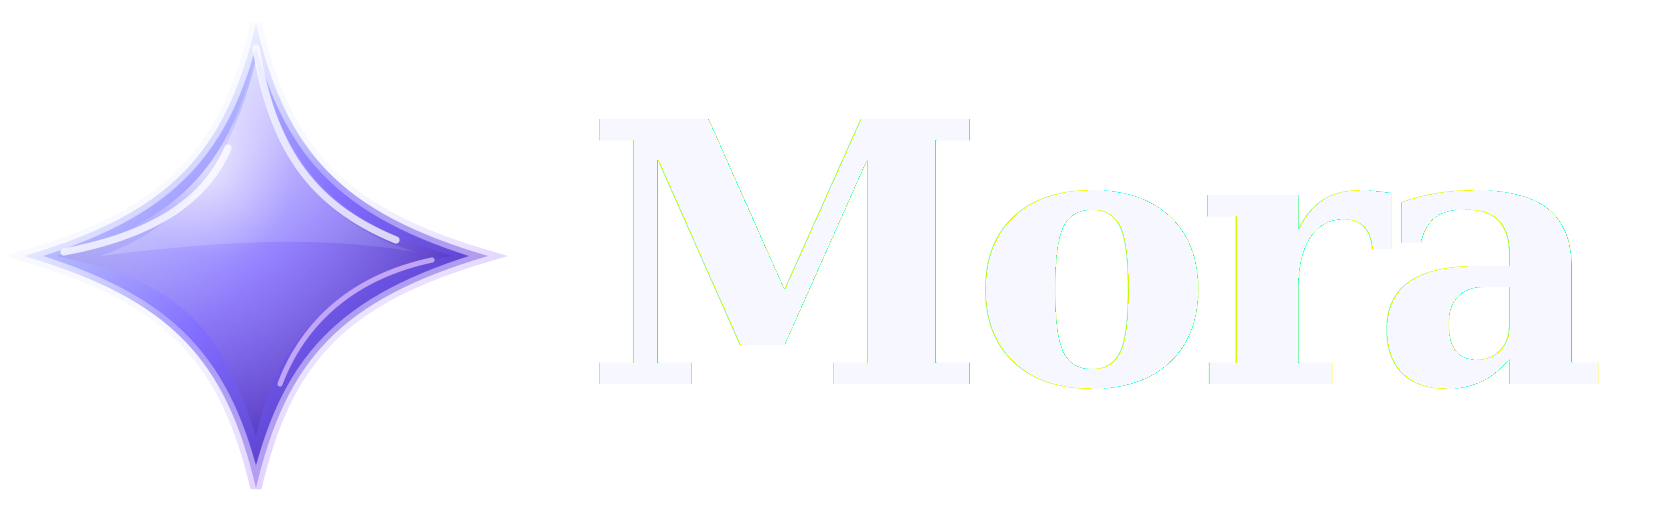
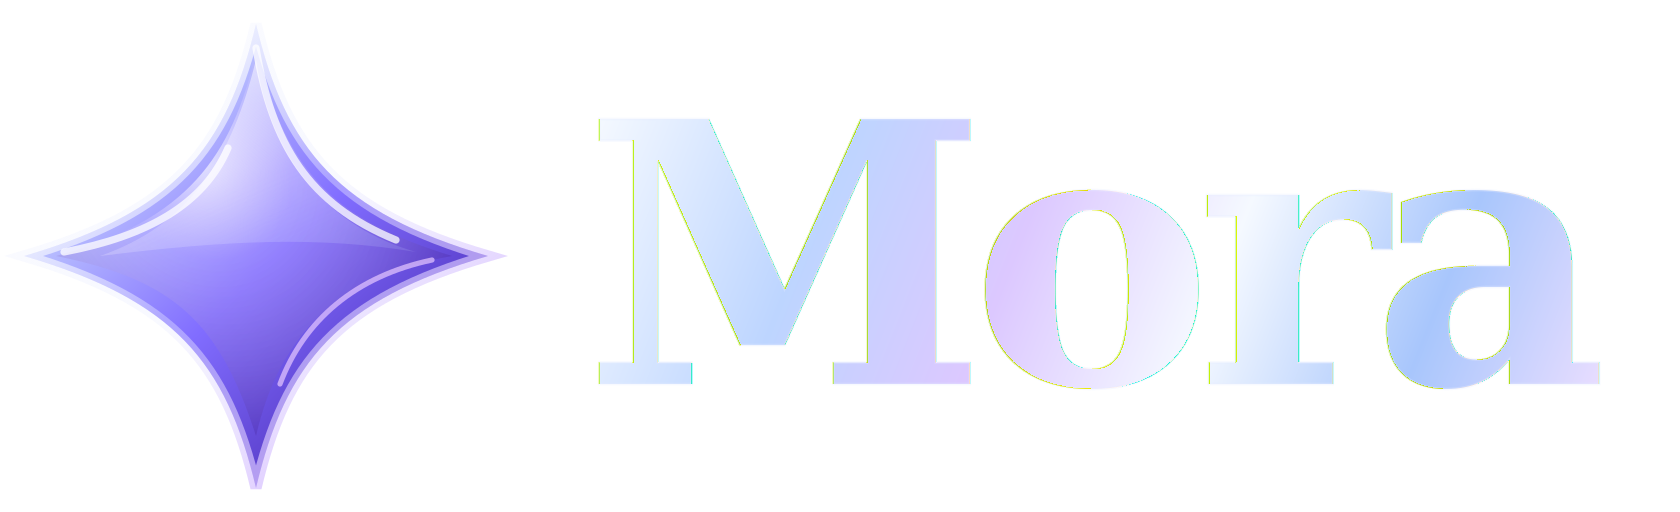
Make Mora wordmark interactive and restore light hero contrast

Changed region(s): [[0.3405, 0.2188, 0.681, 0.75], [0.7429, 0.3438, 0.9595, 0.7812]]

diff --git a/src/styles.css b/src/styles.css
@@ -471,3 +471,53 @@ html[data-theme="dark"] .learn-hero .learn-search input::placeholder { color:#55
 }
 @media(max-width:410px) { .profile-layout aside { grid-template-columns:1fr; } }
 @media(prefers-reduced-motion:reduce) { .site-header { transition:none; } }
+
+/* The wordmark is live interface text, with a glass highlight on hover and focus. */
+.brand { --brand-type-size:38px; display:inline-flex; align-items:center; gap:5px; white-space:nowrap; isolation:isolate; }
+.brand-liquid-star { display:block; flex:none; width:41px; height:41px; filter:drop-shadow(0 3px 8px rgba(72,48,178,.24)); transition:transform .55s ease,filter .55s ease; }
+.brand-liquid-text {
+  position:relative; display:inline-block; font-family:Georgia,'Times New Roman',serif;
+  font-size:var(--brand-type-size); font-weight:700; line-height:1.09; letter-spacing:-.063em;
+  color:#1b3774; background:linear-gradient(135deg,#122750 3%,#244796 24%,#5678c4 35%,#5d46af 43%,#18346b 63%,#3d65b1 83%,#1a2e65);
+  background-size:205% 150%; background-position:0 50%; background-clip:text; -webkit-background-clip:text; -webkit-text-fill-color:transparent;
+  -webkit-text-stroke:.35px rgba(19,38,89,.34); text-shadow:0 4px 15px rgba(32,47,112,.16);
+  transition:background-position .8s ease,transform .55s ease,text-shadow .55s ease;
+}
+.brand-liquid-text::after {
+  content:attr(data-text); position:absolute; inset:0; pointer-events:none;
+  background:linear-gradient(110deg,transparent 18%,rgba(255,255,255,.75) 33%,transparent 48%);
+  background-size:250% 100%; background-position:0 50%; background-clip:text; -webkit-background-clip:text;
+  -webkit-text-fill-color:transparent; opacity:0; transition:background-position .85s ease,opacity .4s ease;
+}
+.brand:hover .brand-liquid-star,.header-brand:focus-visible .brand-liquid-star { transform:rotate(9deg) scale(1.08); filter:drop-shadow(0 5px 12px rgba(102,67,208,.42)); }
+.brand:hover .brand-liquid-text,.header-brand:focus-visible .brand-liquid-text { background-position:100% 50%; transform:translateY(-1px); text-shadow:0 5px 18px rgba(52,79,180,.32); }
+.brand:hover .brand-liquid-text::after,.header-brand:focus-visible .brand-liquid-text::after { opacity:.85; background-position:100% 50%; }
+.brand:active .brand-liquid-star { transform:rotate(-7deg) scale(.96); }
+html[data-theme="dark"] .brand-liquid-text {
+  color:#eef4ff; background-image:linear-gradient(135deg,#f8fbff 5%,#bbd3ff 24%,#e2c4ff 43%,#f8faff 64%,#a8caff 83%,#e9d9ff);
+  -webkit-text-stroke:.35px rgba(224,234,255,.38); text-shadow:0 3px 16px rgba(155,163,255,.3);
+}
+.header-brand>small { margin-left:47px; }
+.auth-shell-simple .auth-title .brand { --brand-type-size:54px; gap:8px; }
+.auth-shell-simple .auth-title .brand-liquid-star { width:54px; height:54px; }
+.brand.compact .brand-liquid-text { display:none; }
+.brand.compact .brand-liquid-star { width:40px; height:40px; }
+/* Restore dark hero surfaces after the shared glass-card background declaration. */
+html:not([data-theme="dark"]) .worlds-hero.glass-card,
+html:not([data-theme="dark"]) .projects-hero.glass-card,
+html:not([data-theme="dark"]) .learn-hero.glass-card {
+  color:#fff;
+  background:radial-gradient(circle at 78% 10%,rgba(176,143,250,.2),transparent 47%),linear-gradient(130deg,rgba(20,59,139,.97),rgba(45,46,136,.95) 55%,rgba(80,43,148,.94));
+}
+html:not([data-theme="dark"]) .demo-banner.glass-card { background:linear-gradient(130deg,rgba(18,54,135,.95),rgba(79,46,141,.94)); color:white; }
+a.primary-button { text-decoration:none; }
+@media(max-width:640px) {
+  .brand { --brand-type-size:30px; gap:4px; }
+  .brand-liquid-star { width:32px; height:32px; }
+  .header-brand>small { margin-left:37px; }
+  .auth-shell-simple .auth-title .brand { --brand-type-size:50px; }
+  .mobile-nav a[href$="/studio"] span { white-space:normal; max-width:67px; line-height:1.15; text-overflow:clip; }
+}
+@media(prefers-reduced-motion:reduce) {
+  .brand-liquid-star,.brand-liquid-text,.brand-liquid-text::after { transition:none; }
+}

diff --git a/src/components/AppLayout.jsx b/src/components/AppLayout.jsx
@@ -12,7 +12,7 @@ const navItems = [
   ['/worlds', 'worlds', Globe2],
   ['/projects', 'projects', BriefcaseBusiness],
   ['/learn', 'learn', BookOpen],
-  ['/profile', 'profile', UserRound],
+  ['/studio', 'studio', Settings],
 ]
 
 function Avatar({ profile }) {
@@ -68,7 +68,6 @@ export default function AppLayout() {
       </div>
       <nav className="main-nav" aria-label="Điều hướng chính">
         {navItems.map(([to, key, Icon]) => <NavLink key={to} to={to} onClick={() => setAccountOpen(false)}><Icon /><span>{t[key]}</span></NavLink>)}
-        <NavLink className="nav-studio" to="/studio" onClick={() => setAccountOpen(false)}><Settings /><span>{t.studio}</span></NavLink>
       </nav>
     </header>
     <main className="app-main"><div className="page-container"><Outlet /></div></main>

diff --git a/src/components/Brand.jsx b/src/components/Brand.jsx
@@ -1,8 +1,8 @@
 export default function Brand({ compact = false }) {
   return (
     <div className={`brand${compact ? ' compact' : ''}`} aria-label="Mora — Create & Connect">
-      <img className="brand-wordmark brand-wordmark-light" src={`${import.meta.env.BASE_URL}brand/mora-wordmark.svg`} alt="" />
-      <img className="brand-wordmark brand-wordmark-dark" src={`${import.meta.env.BASE_URL}brand/mora-wordmark-inverse.svg`} alt="" />
+      <img className="brand-liquid-star" src={`${import.meta.env.BASE_URL}favicon.svg`} alt="" />
+      <span className="brand-liquid-text" data-text="Mora">Mora</span>
     </div>
   )
 }
